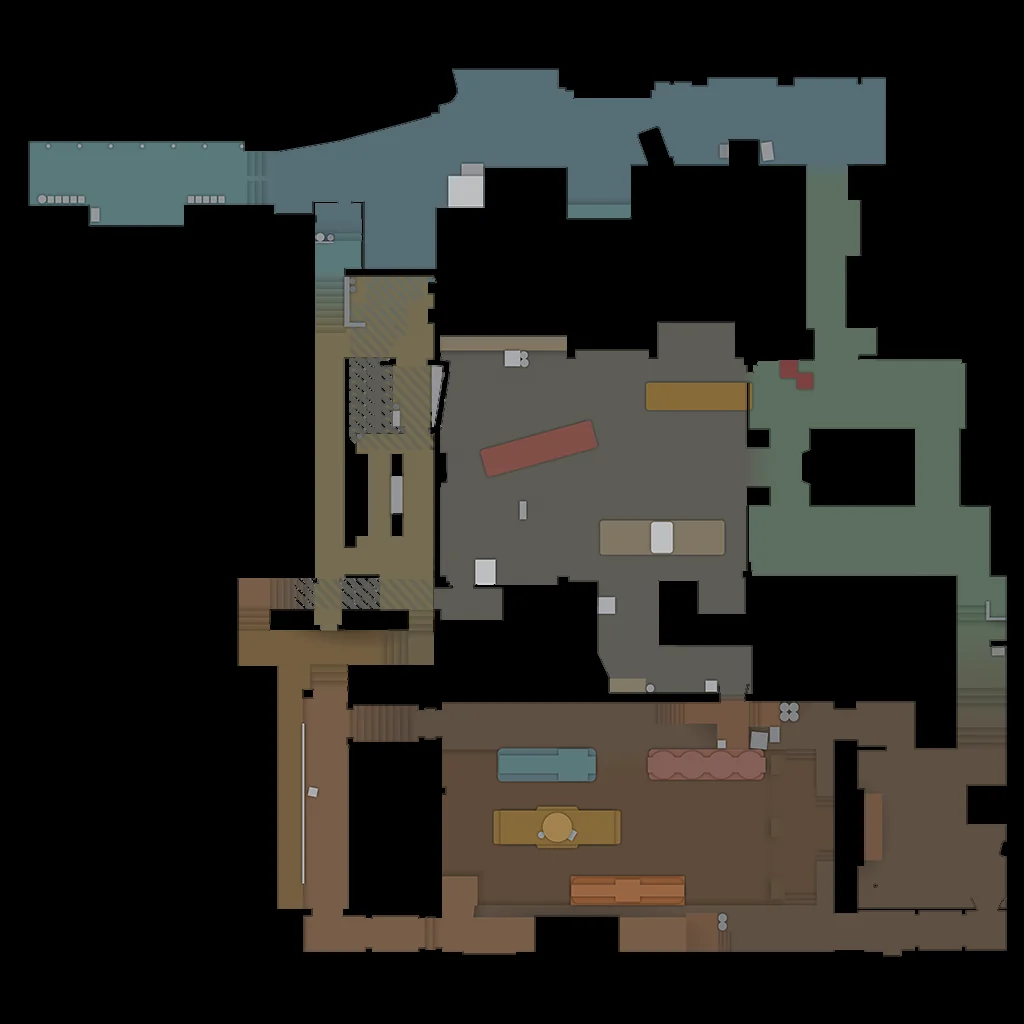
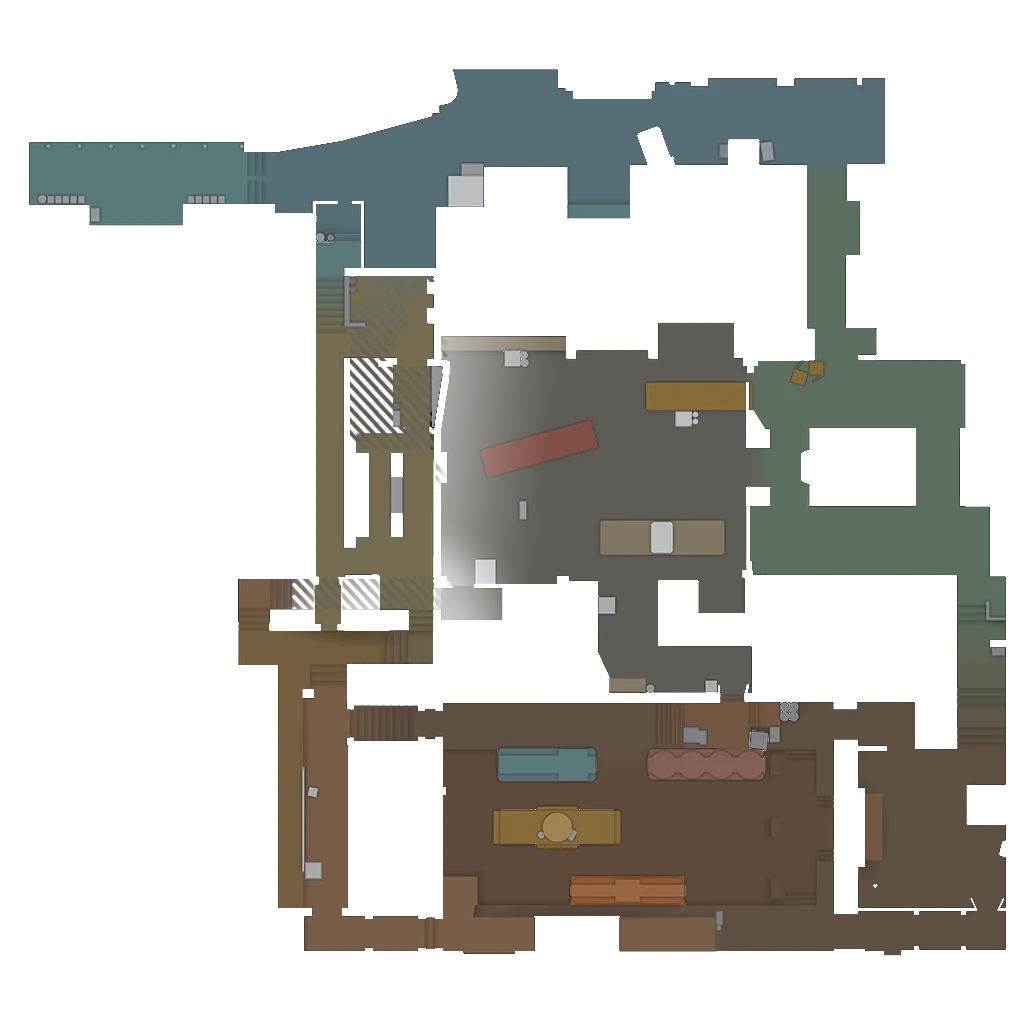
Radary map: aktualne wersje z plików gry (Anubis, Inferno, Nuke, Overpass, Train)
Pięć radarów było starszych niż w grze. Dane Train też były nieaktualne,
więc mają teraz wartości z tego samego pliku co radar.

diff --git a/src/lib/utils/maps.ts b/src/lib/utils/maps.ts
@@ -95,9 +95,9 @@ export const MAP_CONFIGS: Record<string, MapConfig> = {
     name: "de_train",
     displayName: "Train",
     radarImage: "/maps/de_train_radar.webp",
-    posX: -2477,
-    posY: 2392,
-    scale: 4.7,
+    posX: -2308,
+    posY: 2078,
+    scale: 4.082077,
     width: 1024,
     height: 1024,
   },
